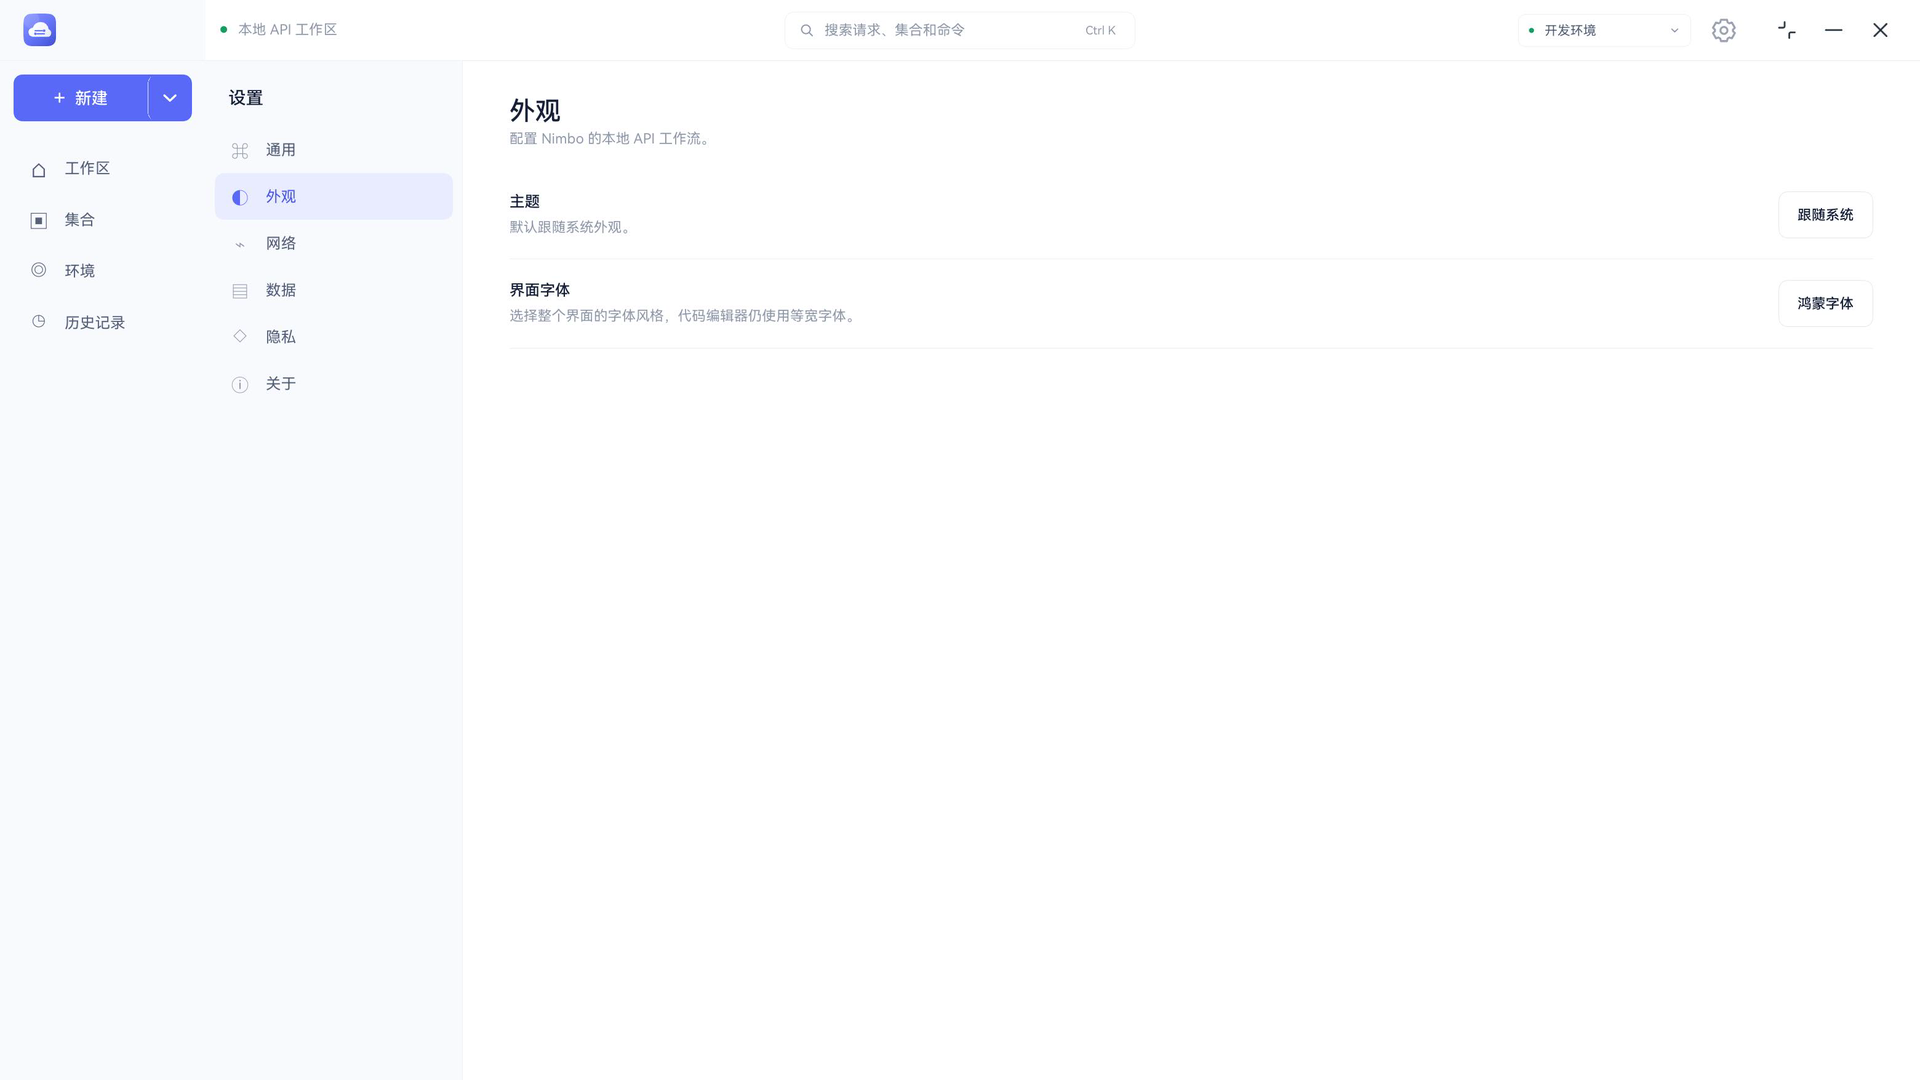
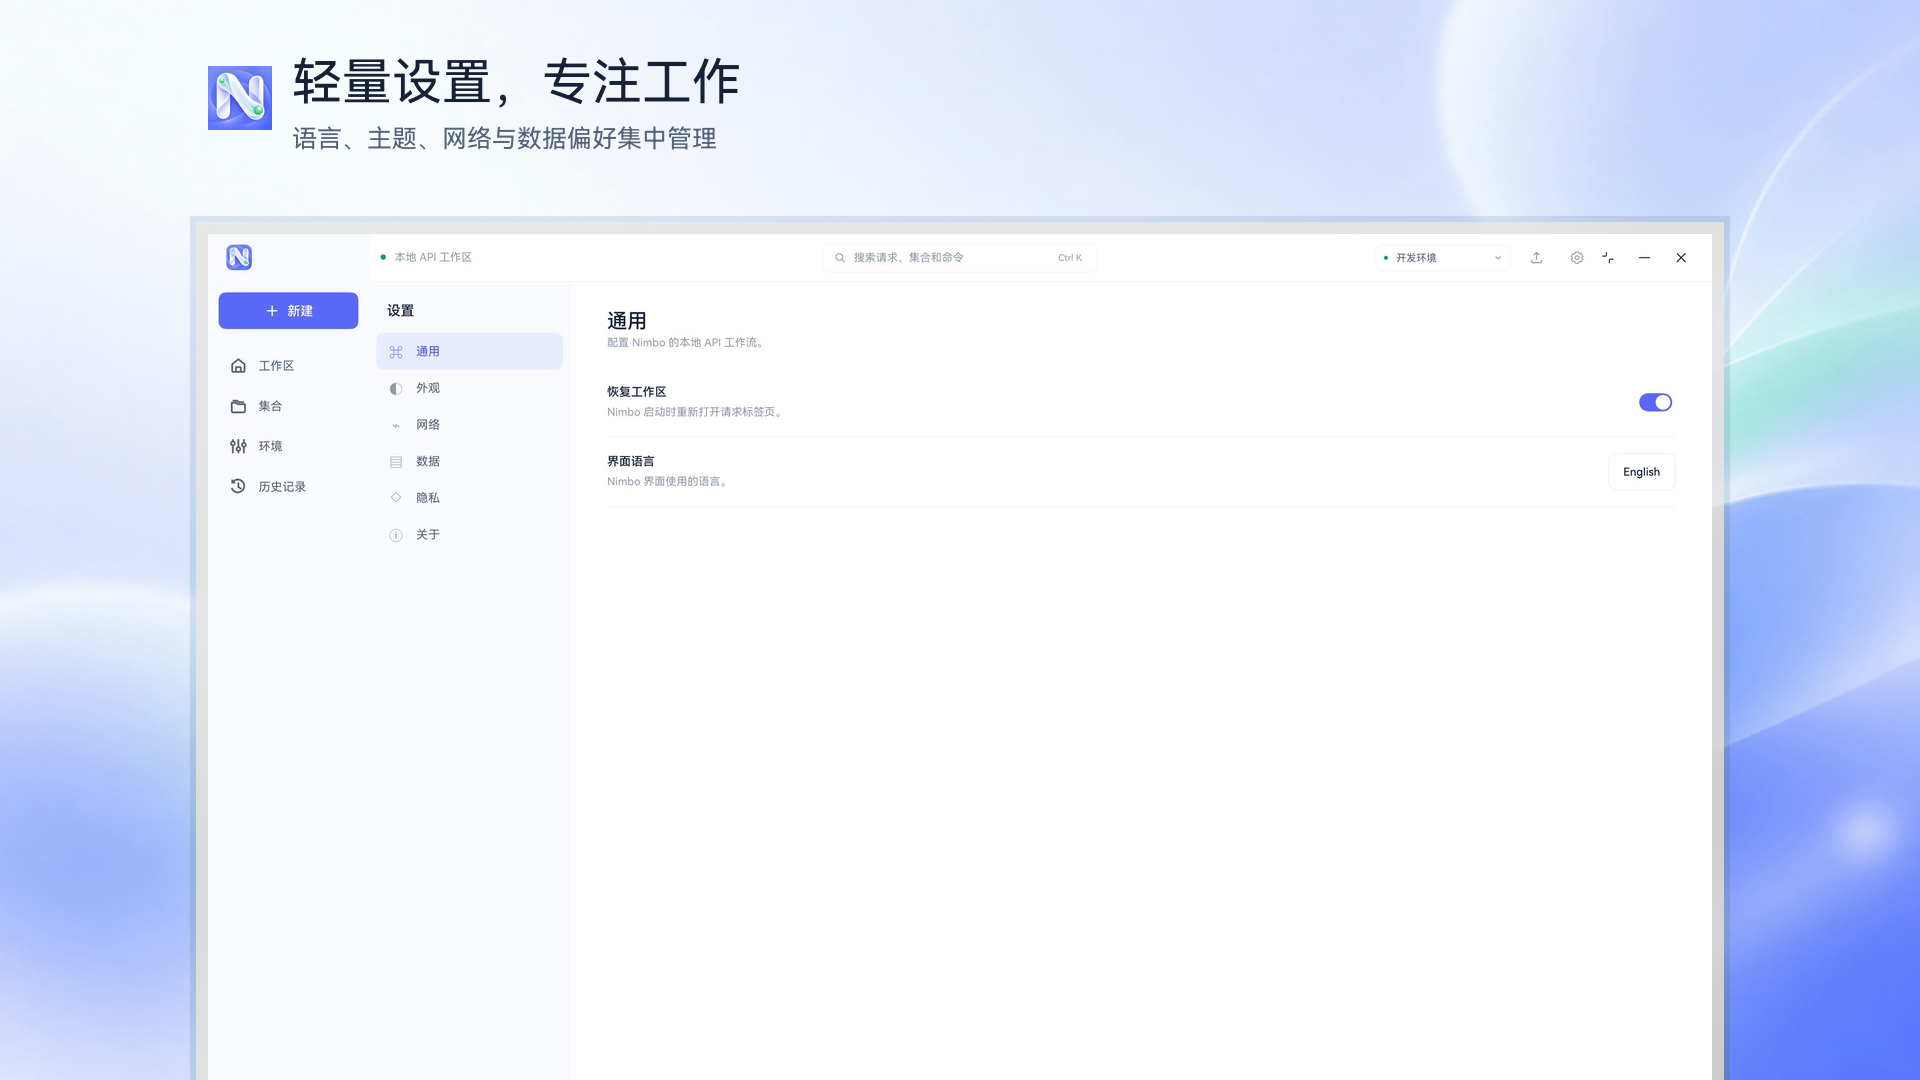
release: finalize Nimbo 1.0 assets

diff --git a/docs/nimbo-dev-package/CODEX_HANDOFF.md b/docs/nimbo-dev-package/CODEX_HANDOFF.md
@@ -409,6 +409,14 @@ Milestone 13 不扩展协议、账号、云端或 Runner 范围，只针对 Mile
 
 紧凑侧栏新建按钮回归（2026-09-12）：非最大化窗口继续按响应式设计只显示新建图标，但不再使用受字体字形与缩放影响的 `+` 字符；紧凑按钮与完整“新建”按钮统一复用固定 viewBox、圆角端点的 SVG 加号，避免横线右端被裁切或视觉偏心。MateBook Pro 模拟器重新安装签名 HAP 后，在非最大化窗口验证加号完整且水平、垂直居中；仓库质量检查和签名构建通过，仍只保留 Milestone 5 已知的两条 Redirect Interceptor 兼容提示。
 
+品牌与导航图标回归（2026-09-12）：桌面侧栏和移动端底栏不再依赖系统字体中的主页、方框、圆环、时钟和齿轮字符，统一改用 20 × 20 viewBox、圆角端点和约 2px 描边的 SVG 图标；工作区、集合、环境、历史和设置均提供独立选中态，选中态使用品牌色并略微加粗。App Icon 参考灵题已确认的立体品牌语言，从通用云朵改为珍珠质感的立体流动 `N`，两端节点表达 Request / Response；最终配色受现有 Design Token 约束，背景以 `#5B68F6` / `#4D59E5` 柔和蓝紫为主，白色丝带呼应 Workspace，节点使用接近 Success / GET 的克制薄荷绿，禁止高饱和紫红、电光蓝和大面积霓虹光晕。系统负责最终圆角蒙版。AppScope 与 Entry Ability 使用符合平台规范的 1024px 前景、背景分层资源，前景保留真实 Alpha，背景完全不透明；标题栏和 AppGallery 1024px / 216px 上传图由同一组分层母版合成，确保软件包图标与商店图标一致。MateBook Pro 模拟器在非最大化窗口重新安装验收，导航图标线宽、视觉中心和选中态一致，新 App Icon 在 28px 标题栏与系统 Dock 均可辨识且与新建、发送、选中态处于同一色相体系。
+
+标题栏焦点状态回归（2026-09-12）：EntryAbility 监听原生 `windowEvent`，将 WINDOW_ACTIVE / WINDOW_SHOWN 与 WINDOW_INACTIVE / WINDOW_HIDDEN 映射到共享窗口焦点状态，并在销毁时解除监听。导入、设置以及窄窗口搜索按钮通过同一 ToolbarIconButton 在失焦时同步降低不透明度，聚焦后恢复 Hover / Pressed 反馈，从而与系统最小化、最大化、关闭按钮保持一致。MateBook Pro 模拟器分别截取聚焦与点击窗口外桌面后的状态，确认自定义操作和原生窗口按钮同步变淡、恢复；签名构建通过且无新增 warning。
+
+AppGallery 海报素材回归（2026-09-12）：卸载旧版并重新安装当前签名 HAP 后，在 MateBook Pro 模拟器最大化窗口采集请求与响应、JSON 正文编辑、环境变量、历史记录和设置五个真实页面。原始 3120 × 2080 图像只裁掉系统 Dock 和底部区域，使用精确 16:9 的 3120 × 1755 应用画面，并等比缩放为 1504 × 846 嵌入 1920 × 1080 海报，禁止非等比拉伸。海报采用无文字的柔和品牌背景，标题与说明由脚本使用 HarmonyOS Sans SC 确定性排版，避免生成式文字错误。五张 PNG 均小于 1 MB；原始截图、背景和可重复生成脚本保留在 `release/appgallery/posters/` 与 `scripts/generate-appgallery-posters.sh`。
+
[1 lines of base64/hex data omitted]
+
 继续暂缓：Milestone 12 末尾列出的所有能力，以及未在本里程碑明确列出的新协议与在线能力。
 
 ---

diff --git a/release/appgallery/README.md b/release/appgallery/README.md
@@ -6,8 +6,8 @@
 - APP ID：6917615930484878194
 - 包名：`com.nimbo.app`
 - 发布设备：HarmonyOS PC（`2in1`）
-- 版本名称：`0.1.0`
-- 版本号：`1000000`
+- 版本名称：`1.0`
+- 版本号：`1000001`
 - 分类建议：工具 / 开发者工具
 
 ## 一句话简介（小编推荐）
@@ -37,37 +37,38 @@ Nimbo 是一款面向开发者的鸿蒙电脑原生 API 调试客户端。它以
 
 ## 素材清单
 
-- `app-icon-216.png`：216 × 216 px 应用图标
+- `app-icon-1024.png`：1024 × 1024 px 应用图标（AppGallery 首选上传文件，与包内分层图标同源合成）
+- `app-icon-216.png`：216 × 216 px 应用图标（兼容上传尺寸）
 - `screenshots/01-request-response.png`：请求与 JSON 响应
-- `screenshots/02-collections.png`：中文集合与文件夹操作
+- `screenshots/02-collections.png`：JSON 请求正文编辑与语法高亮
 - `screenshots/03-environments.png`：环境变量管理
 - `screenshots/04-history.png`：请求历史与状态记录
-- `screenshots/05-settings.png`：外观与字体设置
+- `screenshots/05-settings.png`：语言、外观、网络与数据偏好设置
 - `Nimbo-Sample-Collection.postman_collection.json`：截图与体验用中文示例集合
-- `package/Nimbo-0.1.0-PC-release-signed.app`：使用共享发布证书和 Nimbo 发布 Profile 构建的正式提审包
-- `package/Nimbo-0.1.0-PC-release-unsigned.hap`：PC 专用 Release 未签名包，可用于 AppGallery Connect 云管理签名流程
-- `package/Nimbo-0.1.0-PC-release-debug-profile-signed.hap`：使用现有设备调试 Profile 签名的模拟器测试包，不可提交商店
+- `package/Nimbo-1.0-PC-release-signed.app`：使用共享发布证书和 Nimbo 发布 Profile 构建的正式提审包
 - `package/SHA256SUMS.txt`：安装包完整性校验值
 
-所有商店截图均为真实 HarmonyOS PC 模拟器界面，尺寸为 1920 × 1080 px、PNG 格式且小于 5 MB。
+所有商店截图均为真实 HarmonyOS PC 模拟器最大化界面与品牌背景合成的海报，尺寸为 1920 × 1080 px、PNG 格式且小于 5 MB。界面先从原始 3120 × 2080 捕获中等比裁出 3120 × 1755，再等比缩放为 1504 × 846，没有横向或纵向拉伸；海报文字使用 HarmonyOS Sans SC。
 
 ## 上架备注
 
 - 应用仅声明 `2in1` 设备类型。
+- 包内应用图标使用 1024 × 1024 px 的前景、背景分层资源；前景带透明通道，背景完全不透明，系统负责最终圆角蒙版。
 - 应用需要网络权限，用途仅为执行用户主动配置的 HTTP 请求。
 - 应用不要求账号登录；工作区数据默认存储在本机。
 - 提交前请在 AppGallery Connect 中确认正式签名证书、隐私政策 URL、支持邮箱和版权信息均为最终发布值。
 
 ## 安装包签名状态
 
-`Nimbo-0.1.0-PC-release-signed.app` 已使用 `/Users/lake/app` 中的共享发布密钥、发布证书及 Nimbo 独立发布 Profile 完成签名，可用于 AppGallery Connect 软件包上传。验收结果：
+`Nimbo-1.0-PC-release-signed.app` 已使用 `/Users/lake/app` 中的共享发布密钥、发布证书及 Nimbo 独立发布 Profile 完成签名，可用于 AppGallery Connect 软件包上传。验收结果：
 
 - 构建模式：Release
 - 包名：`com.nimbo.app`
 - APP ID：`6917615930484878194`
 - Profile 类型：`release`
 - 设备类型：`2in1`
-- 版本：`0.1.0`（`1000000`）
+- 版本：`1.0`（`1000001`）
 - APP 签名：验证通过，签名证书与共享发布证书一致
[1 lines of base64/hex data omitted]
 
 提审时请上传 `.app` 文件。不要上传目录中的调试 Profile 签名 HAP。

diff --git a/CHANGELOG.md b/CHANGELOG.md
@@ -4,7 +4,7 @@ All notable changes to Nimbo will be documented in this file.
 
 The project follows [Semantic Versioning](https://semver.org/) for published releases.
 
-## [Unreleased]
+## [1.0] - 2026-09-12
 
 ### Added
 
@@ -84,6 +84,10 @@ The project follows [Semantic Versioning](https://semver.org/) for published rel
 - Refreshed environment value editors immediately when Secret changes and aligned masked-value padding with the normal value column
 - Kept the active script-completion candidate visible by automatically scrolling the compact suggestion list during keyboard navigation
 - Replaced the sidebar New button's font plus with a fixed SVG so the icon remains centered and unclipped in non-maximized windows
+- Replaced font-dependent sidebar and mobile navigation glyphs with a consistent rounded-stroke SVG family and stronger active states
+- Redesigned the application mark as a dimensional pearl-ribbon N using the UI's restrained periwinkle and success-mint palette, including the 216 px AppGallery asset
+- Synchronized custom title-bar action opacity with native window active and inactive states
+- Rebuilt the five AppGallery screenshots as 1920 × 1080 posters using maximized, aspect-ratio-preserved UI captures and HarmonyOS Sans SC typography
 
 ## [0.1.0-alpha] - 2026-09-10
 

diff --git a/release/appgallery/posters/README.md b/release/appgallery/posters/README.md
@@ -1,0 +1,13 @@
+# AppGallery poster sources
+
+The five upload-ready images in `../screenshots/` are generated from maximized Nimbo screenshots without stretching.
+
+- Raw captures: 3120 × 2080 px; the 3120 × 1755 application area is cropped at its original ratio.
+- Poster canvas: 1920 × 1080 px.
+- Embedded interface: 1504 × 846 px (exactly 16:9).
+- Typeface: HarmonyOS Sans SC from the DevEco Studio preview runtime.
+- Generator: `../../../scripts/generate-appgallery-posters.sh`.
+
+The background plate was generated with the built-in image tool using this prompt:
+
+> Elegant minimal 16:9 AppGallery poster background for Nimbo, with restrained periwinkle, pale lavender, cool white, subtle mint accents, soft flowing translucent ribbons, generous headline space, and no text, logo, device, window, or watermark.
